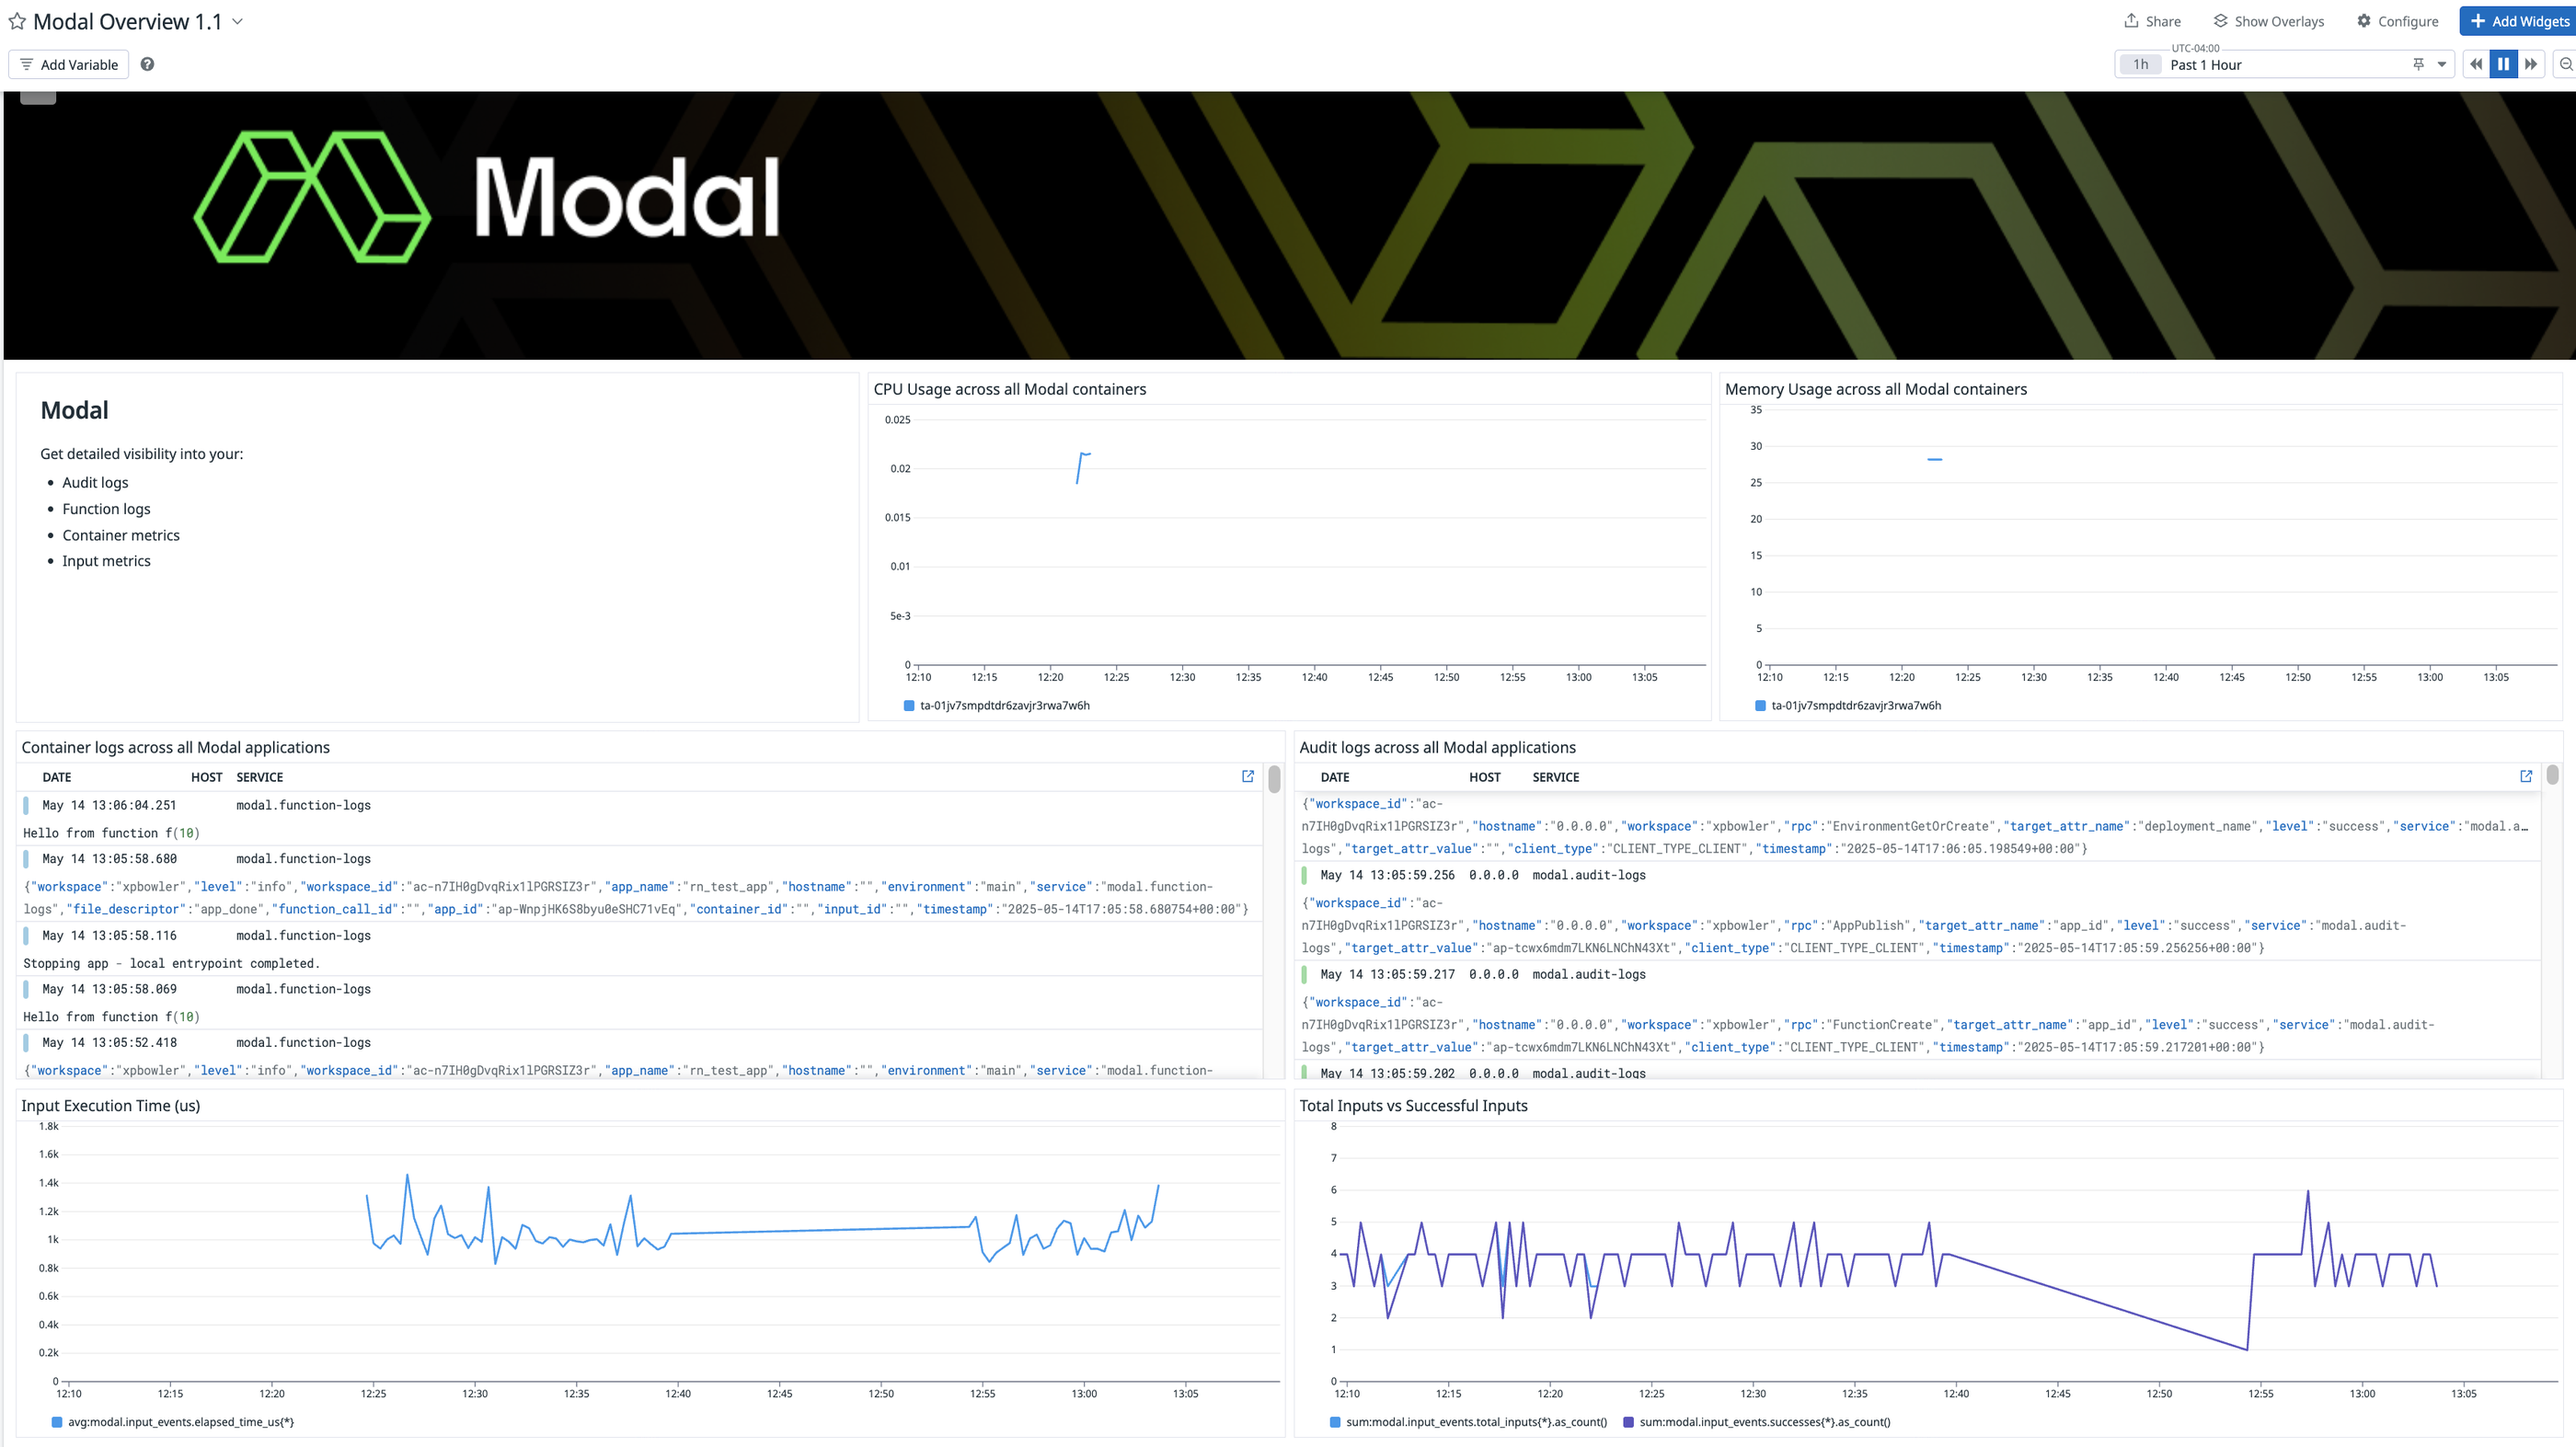
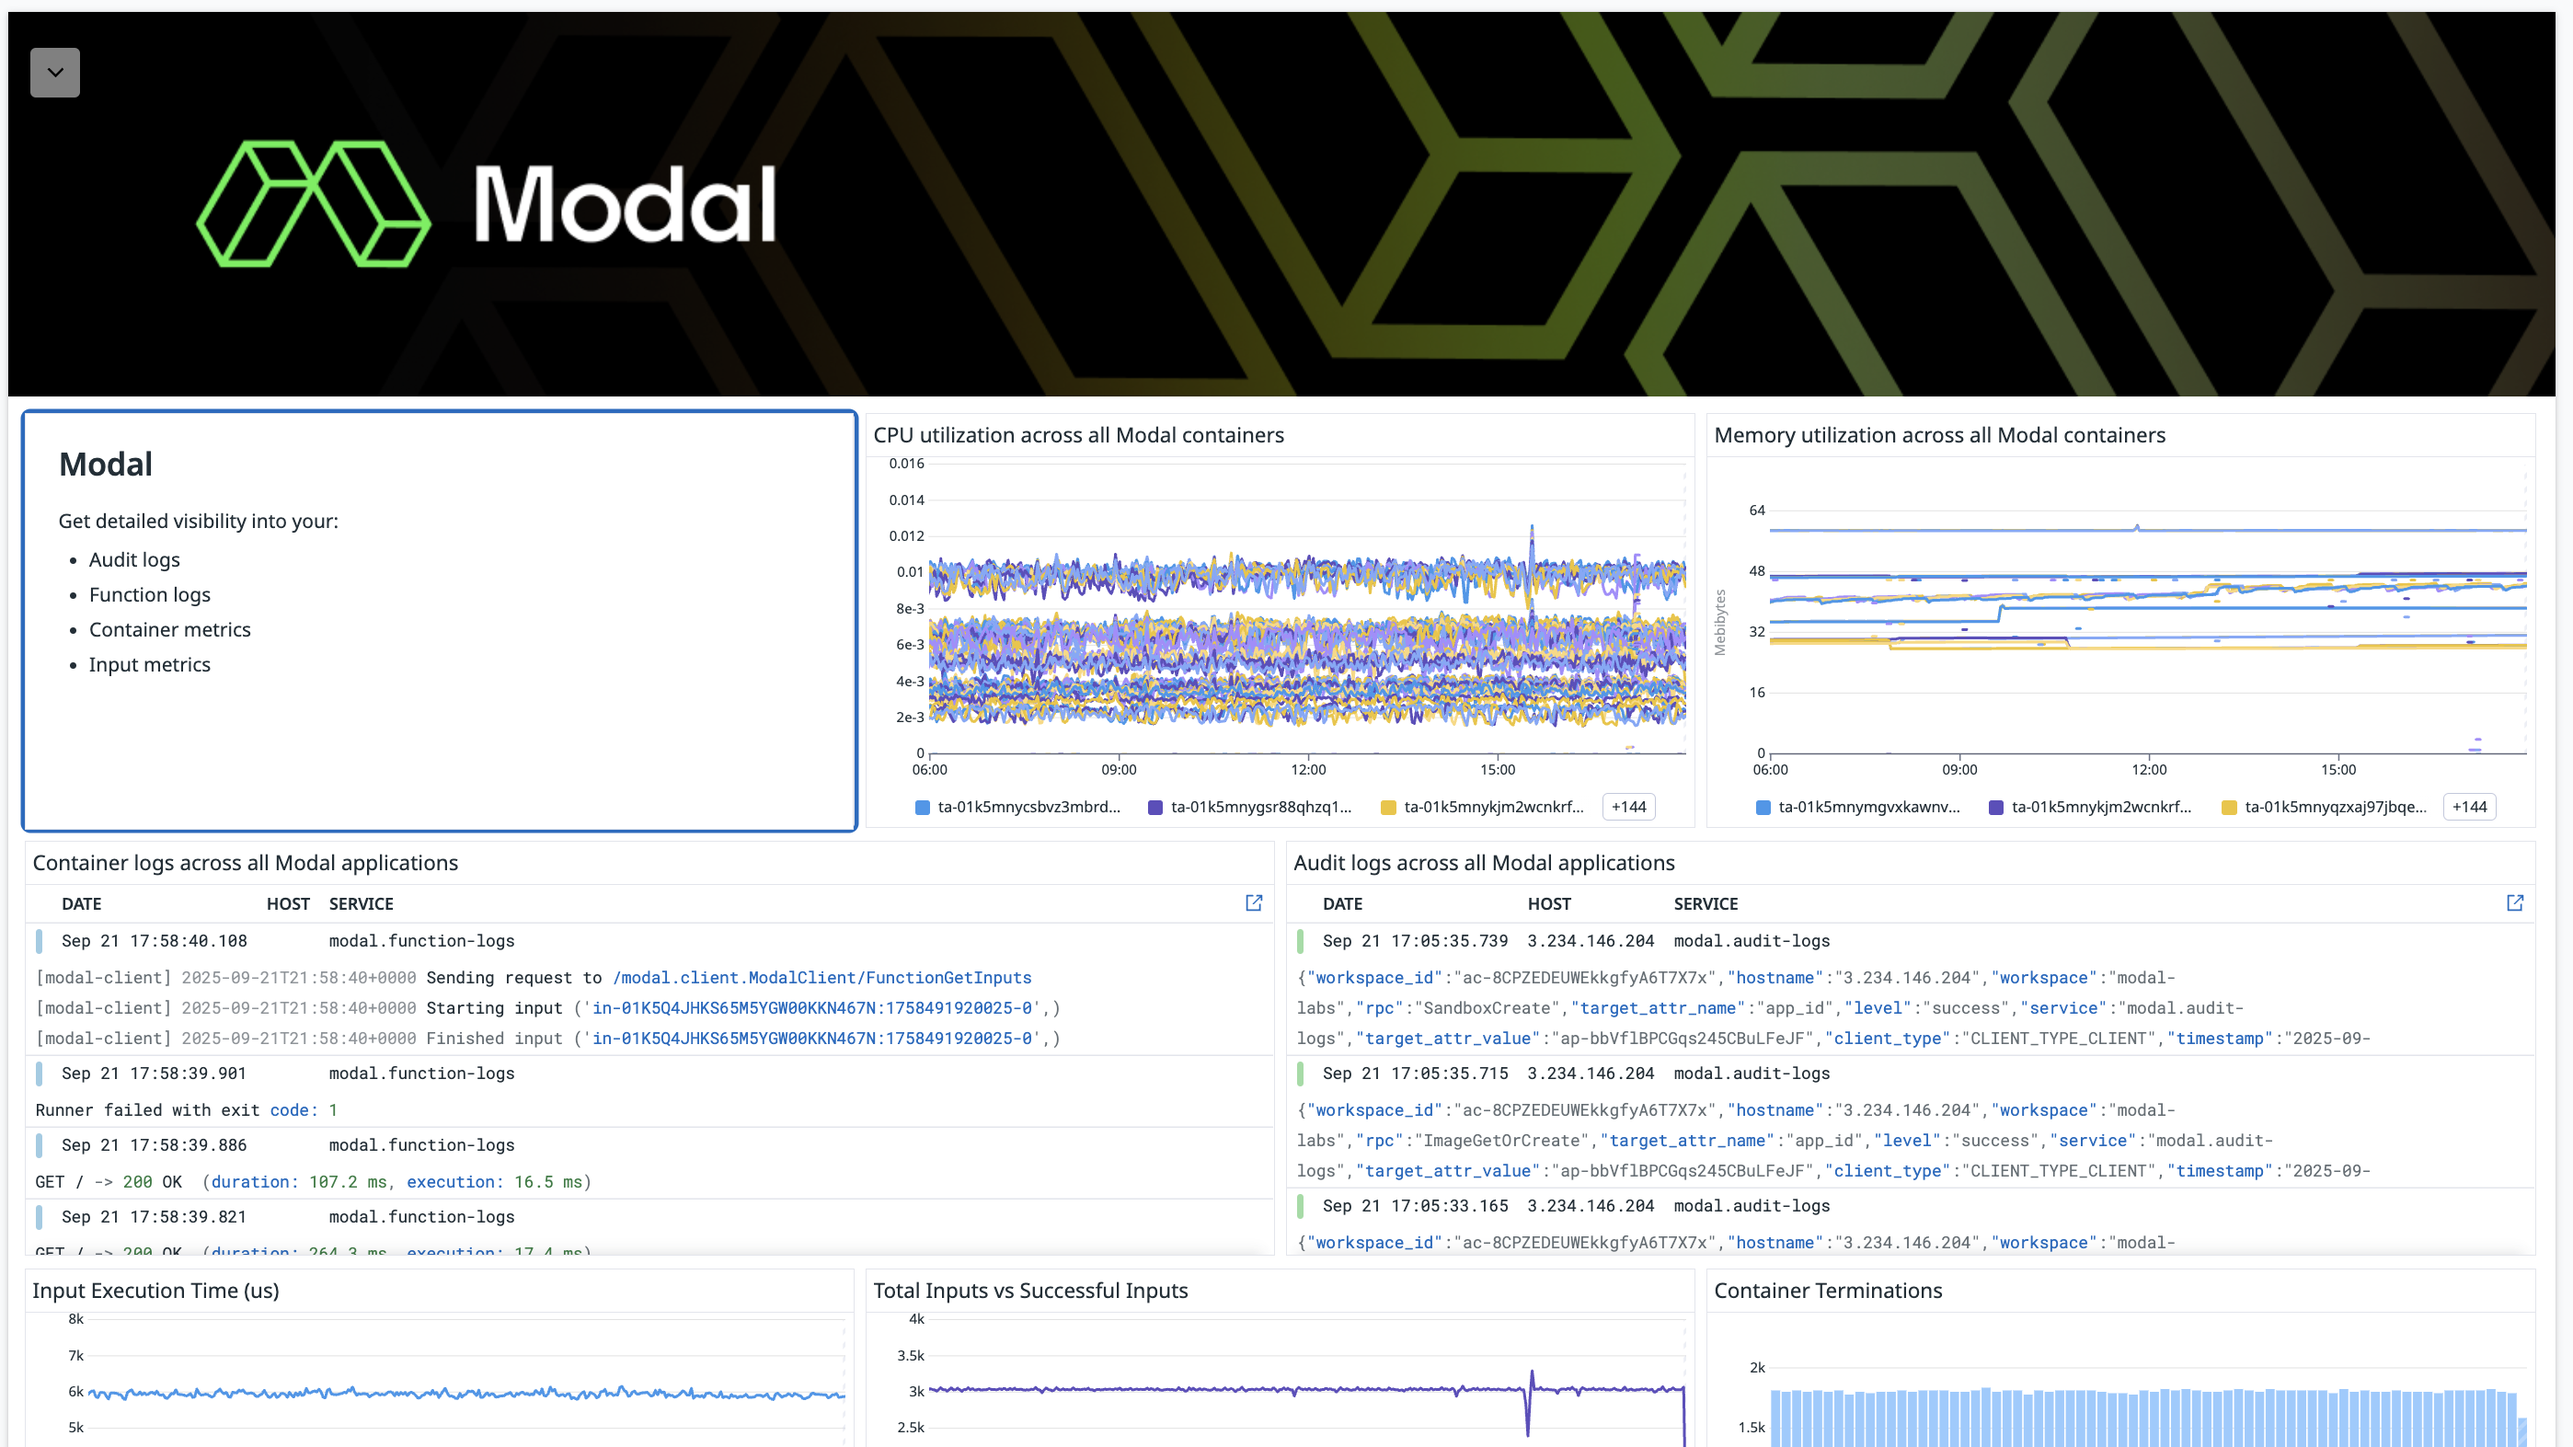
Add new metrics for container termination and memory usage (#2802)

diff --git a/modal/CHANGELOG.md b/modal/CHANGELOG.md
@@ -1,5 +1,12 @@
 # CHANGELOG - Modal
 
+## 1.4.0 / 2025-09-21
+
+***Added***:
+
+* Container termination metrics
+* New memory metric which includes units, and reports in bytes
+
 ## 1.3.0 / 2025-05-12
 
 ***Added***:
